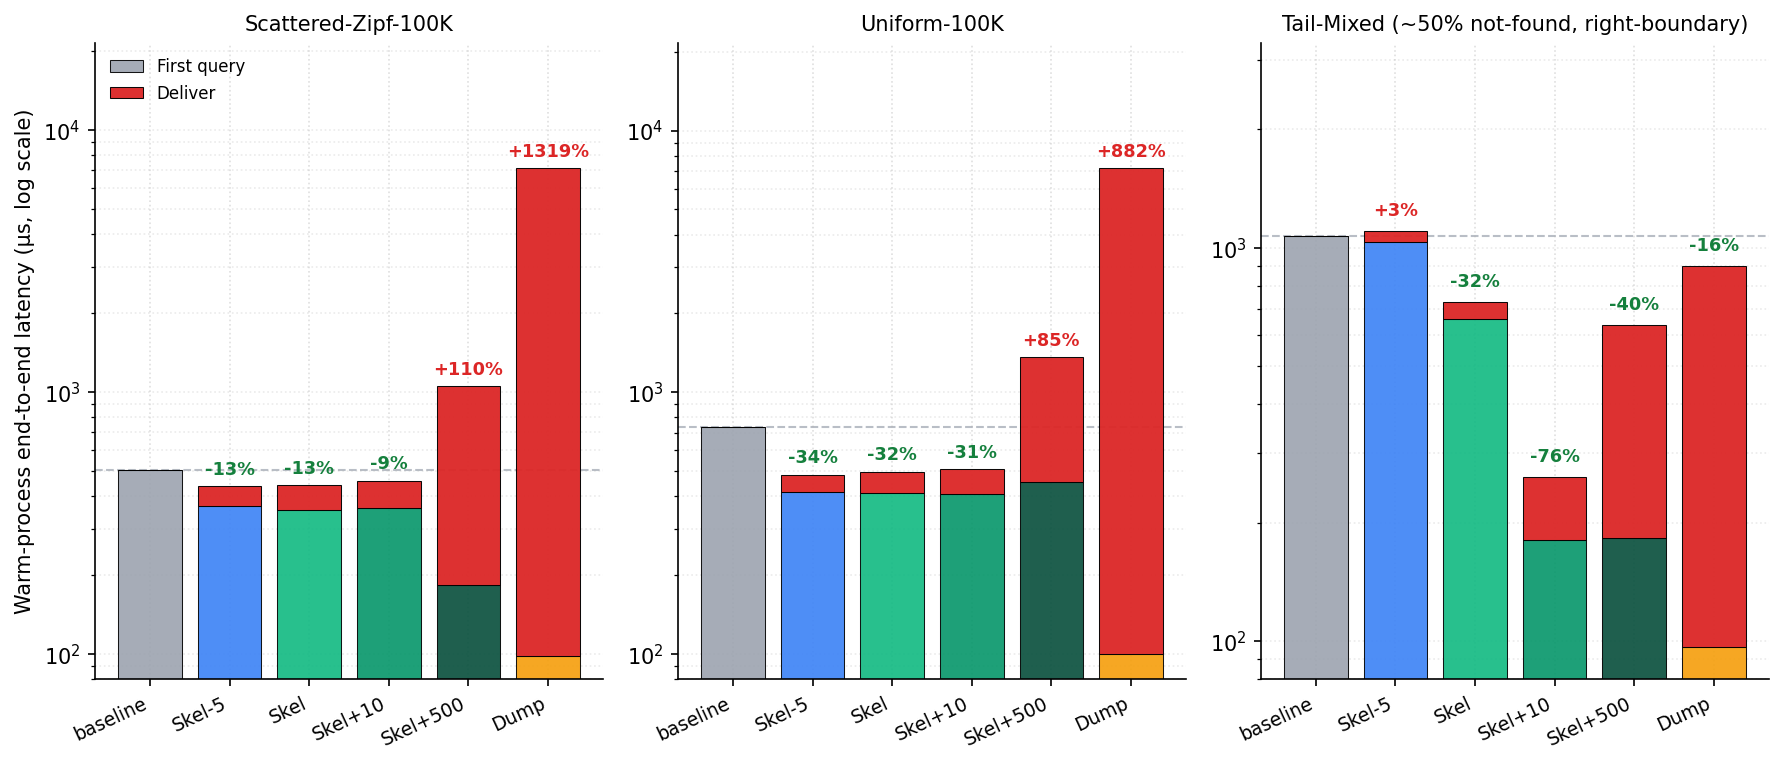
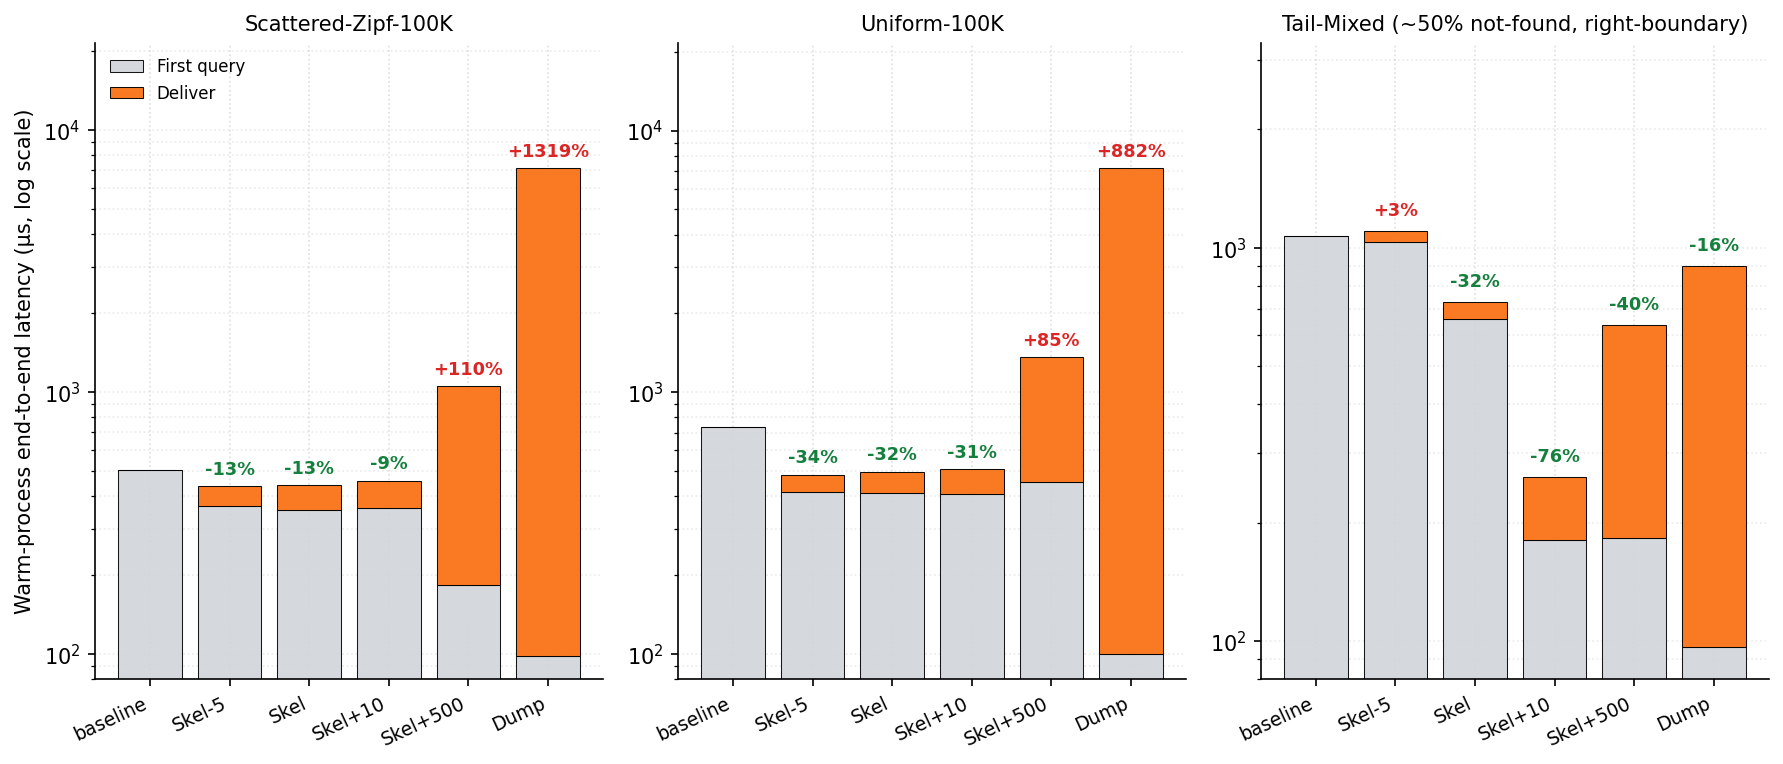
figures: colour Figure 14 by cost component, not by strategy
The stack decomposes cold start into first query and delivery, but the
lower segment took its colour from STRATEGY_COLORS while the legend
carried one swatch labelled "First query" -- the legend and the bars
disagreed. Both segments now read from FQ_COLOR/DELIVER_COLOR: grey for
the first query, orange for delivery.

The grey is #d1d5db rather than the palette's baseline #9ca3af: in
greyscale the baseline grey lands at ~163 against orange's ~145, close
enough to merge in print, while #d1d5db lands at ~209.

Figure 13 keeps per-strategy colouring. It is a paired-delta chart where
the strategy is the unit being compared; here the unit is the cost
component.

Also drops the dashed baseline guide line, redundant with the baseline
bar itself.

No data change: same unified_v3 batch, same 15 plotted cells, every
percentage identical to the previous render.

Bumps paper to 8197add (same figure, and the main.tex edits landed
upstream in 5d214ee..1be1585).

diff --git a/figures/14_strategy_endtoend_stacked.py b/figures/14_strategy_endtoend_stacked.py
@@ -19,7 +19,7 @@ log axis, but they round differently in three cells, so the label follows the
 tables rather than the drawn height -- a label is a claim, the bar is a picture.
 """
 import csv, sys
-from plot_utils import ROOT, save, STRATEGY_COLORS, workload_panel_title
+from plot_utils import ROOT, save, workload_panel_title
 import matplotlib.pyplot as plt
 import numpy as np
 
@@ -32,6 +32,8 @@ ARM_LABEL = {'baseline': 'baseline', 'layers_5': 'Skel-5', '2d': 'Skel',
 # CSV keys stay legacy (A/B/C); titles resolve to canonical display names.
 WORKLOADS = ['A', 'B', 'C']
 WL_TITLE  = {w: workload_panel_title(w) for w in ('A', 'B', 'C')}
+FQ_COLOR      = '#d1d5db'   # first query (bottom)
+DELIVER_COLOR = '#f97316'   # deliver (top)
 
 
 def load(path):
@@ -70,13 +72,11 @@ for ax, wl in zip(axes, WORKLOADS):
         fqs.append(fq); dels.append(dl); canon.append(ew)
     warm     = [f + d for f, d in zip(fqs, dels)]   # drawn stack height
     baseline = fqs[0]
-    colors = [STRATEGY_COLORS.get(s, '#3b82f6') for s in ARMS]
 
-    ax.bar(x, fqs, color=colors, alpha=0.9, edgecolor='black', linewidth=0.5,
+    ax.bar(x, fqs, color=FQ_COLOR, alpha=0.9, edgecolor='black', linewidth=0.5,
            label='First query')
-    ax.bar(x, dels, bottom=fqs, color='#dc2626', alpha=0.95, edgecolor='black',
+    ax.bar(x, dels, bottom=fqs, color=DELIVER_COLOR, alpha=0.95, edgecolor='black',
            linewidth=0.5, label='Deliver')
-    ax.axhline(baseline, color='#9ca3af', ls='--', lw=1.0, alpha=0.7, zorder=0)
 
     for xi, wv, ew, s in zip(x, warm, canon, ARMS):
         if s == 'baseline':
